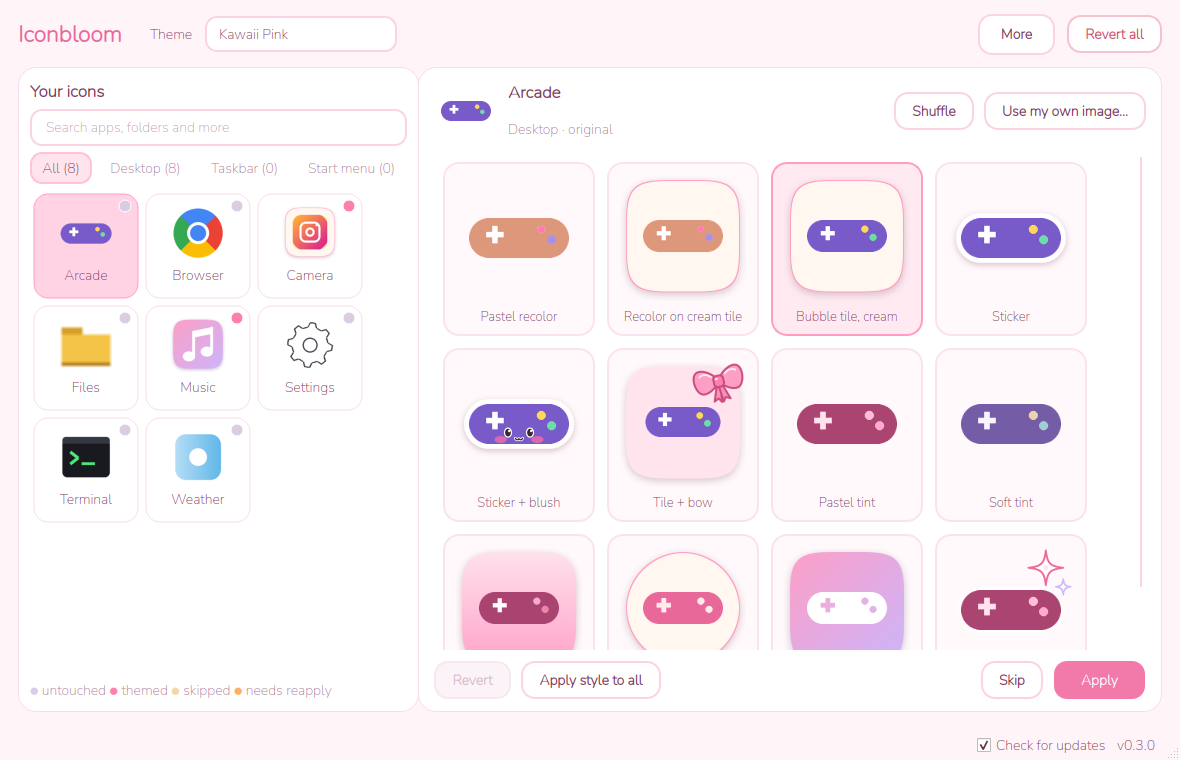
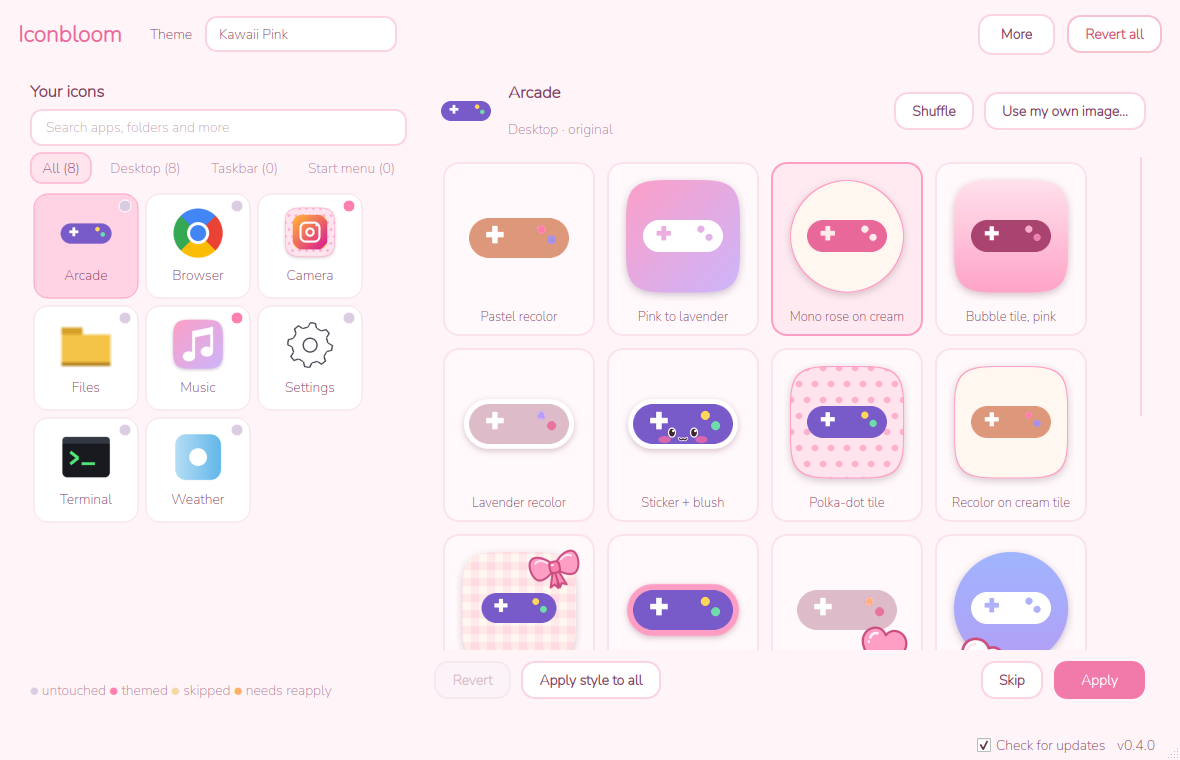
Release 0.4.0: short README, every theme in the showcase
- README is a front page (34 lines): pitch, download, images, FAQ, build,
  license; a test keeps it under 40 lines and checks it shows every theme
- before-after.png has a row per theme; picker.gif picks, applies,
  switches theme and ends in dark mode
- Screenshot script waits for every preview and clears replaced cards,
  so no frame shows a half-drawn or stale picker
- Regression test: after a theme switch, the next icon's previews use it
- ARCHITECTURE.md, CHANGELOG and version 0.4.0

Claude-Session: https://claude.ai/code/session_016EX7knyiLET2icNXRtZ31G

diff --git a/scripts/make_screenshots.py b/scripts/make_screenshots.py
@@ -14,17 +14,16 @@ from pathlib import Path
 from typing import override
 
 from PIL import Image, ImageDraw, ImageFont
-from PySide6.QtCore import QBuffer, QIODevice
+from PySide6.QtCore import QBuffer, QCoreApplication, QEvent, QIODevice
 from PySide6.QtWidgets import QApplication
 
 from app.choices import Choice
 from app.main import load_style
 from app.ui.main_window import MainWindow
-from app.ui.widgets import PreviewCard
 from app.updates import Release, Updater
 from engine import ops
 from engine.recipes import render
-from engine.themes import DEFAULT_THEME, load_theme
+from engine.themes import DEFAULT_THEME, Theme, list_themes, load_theme
 from tests.fakes import SAMPLES_DIR, FakeDesktop
 
 ROOT = Path(__file__).resolve().parent.parent
@@ -39,17 +38,25 @@ APPS = {
     "Terminal": "dark",
     "Weather": "semi_transparent",
 }
-# One cohesive pick per app, as a person might choose in the picker.
+# One pick per app, as a person might choose in the picker, by position in the
+# theme's list. Every bundled theme orders its 20 styles in the same rhythm, so
+# the same position gives each theme's version of a look.
 PICKS = {
-    "Arcade": "sticker_face",
-    "Browser": "tile_bow",
-    "Camera": "bubble_cream",
-    "Files": "pastel_tint",
-    "Music": "gradient_white",
-    "Settings": "mono_rose",
-    "Terminal": "bubble_pink",
-    "Weather": "tint_sparkle",
+    "Arcade": 4,  # second recolor on a sticker
+    "Browser": 9,  # gingham tile + badge
+    "Camera": 6,  # polka-dot tile
+    "Files": 0,  # recolor
+    "Music": 1,  # gradient tile
+    "Settings": 2,  # mono on cream
+    "Terminal": 3,  # bubble tile
+    "Weather": 8,  # tint + glow + badge
 }
+# The picker GIF switches to this theme halfway through.
+SECOND_THEME = "lavender_dream"
+
+
+def pick(theme: Theme, app: str) -> str:
+    return theme.recipes[PICKS[app]].id
 
 
 class OfflineUpdater(Updater):
@@ -67,10 +74,17 @@ def _sample(app: str) -> Image.Image:
 
 def _grab(app: QApplication, window: MainWindow) -> Image.Image:
     # Let the selection delay fire and every background render land.
-    deadline = time.monotonic() + 0.5
-    while time.monotonic() < deadline:
-        app.processEvents()
+    settled = time.monotonic() + 0.5
+    give_up = time.monotonic() + 20
+    while True:
         window.jobs.wait()
+        app.processEvents()
+        # processEvents() skips deleteLater(); without this, replaced cards stay on screen.
+        QCoreApplication.sendPostedEvents(None, QEvent.Type.DeferredDelete)
+        if time.monotonic() >= settled and not window.jobs.busy and _previews_ready(window):
+            break
+        if time.monotonic() > give_up:
+            raise TimeoutError("previews never finished rendering")
         time.sleep(0.02)
     buffer = QBuffer()
     buffer.open(QIODevice.OpenModeFlag.WriteOnly)
@@ -78,7 +92,14 @@ def _grab(app: QApplication, window: MainWindow) -> Image.Image:
     return Image.open(io.BytesIO(bytes(buffer.data().data()))).convert("RGB")
 
 
+def _previews_ready(window: MainWindow) -> bool:
+    theme = window.service.styles.theme(str(window.theme_box.currentData()))
+    return len(window.picker.cards) == len(theme.recipes)
+
+
 def picker_media(app: QApplication) -> None:
+    """picker.png, and picker.gif: pick, apply, switch theme, pick again, go dark."""
+    kawaii = load_theme(DEFAULT_THEME)
     with tempfile.TemporaryDirectory() as tmp:
         desktop = FakeDesktop(Path(tmp), icons=APPS)
         for name in APPS:
@@ -86,14 +107,15 @@ def picker_media(app: QApplication) -> None:
         service = desktop.service()
         for target in service.scan():
             if target.name in ("Camera", "Music"):
-                service.apply(target, Choice(DEFAULT_THEME, PICKS[target.name]))
+                service.apply(target, Choice(DEFAULT_THEME, pick(kawaii, target.name)))
         window = MainWindow(service, hard_refresh=lambda: None, updater=OfflineUpdater())
+        window.set_dark_mode(False, save=False)
         window.resize(1180, 760)
         window.show()
         frames = [_grab(app, window)]
 
         def click(card: int) -> None:
-            chosen = window.findChildren(PreviewCard)[card]
+            chosen = window.picker.cards[card]
             chosen.clicked.emit(chosen)
             frames.append(_grab(app, window))
 
@@ -101,8 +123,12 @@ def picker_media(app: QApplication) -> None:
         click(3)
         window.apply_chosen()
         frames.append(_grab(app, window))
+        window.theme_box.setCurrentIndex(window.theme_box.findData(SECOND_THEME))
+        frames.append(_grab(app, window))
         click(1)
         window.apply_chosen()
+        frames.append(_grab(app, window))
+        window.set_dark_mode(True, save=False)
         frames.append(_grab(app, window))
         frames[1].save(OUT / "picker.png", optimize=True)
         small = [
@@ -114,35 +140,44 @@ def picker_media(app: QApplication) -> None:
             OUT / "picker.gif",
             save_all=True,
             append_images=palette[1:],
-            duration=[1400, 1000, 1000, 1400, 1000, 1800],
+            duration=[1400, 1000, 1000, 1400, 1400, 1000, 1400, 2200],
             loop=0,
             optimize=True,
         )
+        window.set_dark_mode(False, save=False)
         window.close()
 
 
 def before_after() -> None:
-    theme = load_theme(DEFAULT_THEME)
-    size, gap, label_w = 64, 26, 90
+    """The sample icons as they come, then in every bundled theme."""
+    themes = [load_theme(t) for t in list_themes()]
+    themes.sort(key=lambda t: t.id != DEFAULT_THEME)
+    size, gap, label_w, row_h = 64, 26, 150, 104
     width = label_w + len(APPS) * (size + gap) + gap
-    sheet = Image.new("RGB", (width, 2 * (size + 40) + 20), (0, 0, 0))
+    sheet = Image.new("RGB", (width, (1 + len(themes)) * row_h + 20), (0, 0, 0))
     wallpaper = ops.linear_gradient(sheet.size, (92, 120, 168), (170, 140, 190), 20)
     sheet.paste(wallpaper)
     draw = ImageDraw.Draw(sheet)
     font = ImageFont.load_default(size=15)
-    for row, caption in enumerate(("Before", "After")):
-        y = 20 + row * (size + 40)
+    rows: list[tuple[str, Theme | None]] = [("Before", None), *((t.name, t) for t in themes)]
+    for row, (caption, theme) in enumerate(rows):
+        y = 20 + row * row_h
         draw.text((18, y + size // 2), caption, fill=(255, 255, 255), font=font, anchor="lm")
         for col, app in enumerate(APPS):
             icon, _ = ops.prepare(_sample(app))
-            if row == 1:
-                icon = render(theme.recipe(PICKS[app]), icon, theme)
+            if theme is not None:
+                icon = render(theme.recipe(pick(theme, app)), icon, theme)
             x = label_w + gap + col * (size + gap)
             small = icon.resize((size, size), Image.Resampling.LANCZOS)
             sheet.paste(small, (x, y), small)
-            draw.text(
-                (x + size // 2, y + size + 14), app, fill=(255, 255, 255), font=font, anchor="mm"
-            )
+            if row == 0:
+                draw.text(
+                    (x + size // 2, y + size + 14),
+                    app,
+                    fill=(255, 255, 255),
+                    font=font,
+                    anchor="mm",
+                )
     sheet.save(OUT / "before-after.png", optimize=True)
 
 

diff --git a/tests/test_docs.py b/tests/test_docs.py
@@ -5,6 +5,8 @@ from pathlib import Path
 
 import pytest
 
+from engine.themes import list_themes
+
 ROOT = Path(__file__).resolve().parent.parent
 DOCS = [
     ROOT / "README.md",
@@ -28,3 +30,21 @@ def test_local_links_and_images_exist(doc: Path) -> None:
 def test_readme_needs_no_edit_per_release() -> None:
     """Version numbers in the README go stale; it links to the latest release instead."""
     assert not re.search(r"\b\d+\.\d+\.\d+\b", (ROOT / "README.md").read_text(encoding="utf-8"))
+
+
+README_MAX_LINES = 40
+
+
+def test_readme_stays_short() -> None:
+    """The README is a front page: pictures, download, FAQ. Details live in docs/."""
+    lines = (ROOT / "README.md").read_text(encoding="utf-8").splitlines()
+    assert len(lines) <= README_MAX_LINES
+
+
+def test_readme_shows_every_theme() -> None:
+    """The showcase image has a row per bundled theme; its alt text says so."""
+    readme = (ROOT / "README.md").read_text(encoding="utf-8")
+    assert f"each of the {_NUMBER_WORDS[len(list_themes())]} themes" in readme
+
+
+_NUMBER_WORDS = {3: "three", 4: "four", 5: "five", 6: "six", 7: "seven", 8: "eight"}

diff --git a/tests/test_ui_theme_switch.py b/tests/test_ui_theme_switch.py
@@ -1,0 +1,21 @@
+"""Switching themes changes every preview after it, including the next icon's."""
+
+from engine.themes import load_theme
+from tests.ui_harness import Harness
+
+SECOND = "lavender_dream"
+
+
+def test_next_icon_after_apply_uses_the_new_theme(harness: Harness) -> None:
+    window = harness.window
+    window.theme_box.setCurrentIndex(window.theme_box.findData(SECOND))
+    harness.wait_for_previews()
+    labels = {r.label for r in load_theme(SECOND).recipes}
+    assert {c.label for c in window.picker.cards} <= labels
+    window.picker.choose(window.picker.cards[1])
+    window.apply_chosen()
+    harness.settle()
+    harness.wait_for_previews()
+    harness.qtbot.wait(400)
+    harness.settle()
+    assert all(c.choice.theme == SECOND for c in window.picker.cards)

diff --git a/app/__init__.py b/app/__init__.py
@@ -2,4 +2,4 @@
 
 # Kept in step with pyproject.toml (a test checks), since the frozen app has no
 # package metadata to read it from.
-__version__ = "0.3.2"
+__version__ = "0.4.0"

diff --git a/README.md b/README.md
@@ -7,35 +7,13 @@ Restyle your Windows desktop into one cute, matching theme, one icon at a time. 
 
 [![Download for Windows](https://img.shields.io/badge/Download_for_Windows-Iconbloom-2ea44f?style=for-the-badge)](https://github.com/qwopp/iconbloom/releases/latest)
 
-![Sample icons before and after the Kawaii Pink theme](docs/screenshots/before-after.png)
+![Sample icons before, and in each of the five themes](docs/screenshots/before-after.png)
 
-![Picking a style for each icon](docs/screenshots/picker.gif)
-
-## How it works
-
-Pick an icon, choose one of 20 styled versions of its real icon, and click **Apply**. Nothing is AI-generated: every style is the app's own icon run through filters, frames and hand-drawn decorations.
-
-- **Works on** shortcuts (including Steam and Epic games), desktop folders, taskbar pins, the Start menu, and the Recycle Bin, This PC, Network and your user folder.
-- An app with shortcuts in several places is one tile, styled everywhere at once.
-- Ctrl/Shift-click to style several icons together. **Use my own image…** takes any PNG.
-- **Revert** or **Revert all** puts originals back. The uninstaller offers to as well.
-
-## What it changes
-
-Only which icon something shows: never what it opens, and never your apps.
-
-| Item | Where the icon setting lives |
-|---|---|
-| Shortcuts | The icon field in the `.lnk` or `.url` file |
-| Folders | A hidden `desktop.ini` in the folder, as Windows' own *Change Icon* writes it (syncs with OneDrive) |
-| Recycle Bin, This PC, Network, user folder | Your user's registry setting, as Windows' *Desktop icon settings* writes it |
-| Start menu apps installed for all users | Same as shortcuts. Windows asks for permission first |
-
-It can't change running apps that aren't pinned, Store apps in Start, Alt+Tab or title bars. Those icons come from the apps themselves.
-
-Before changing anything, Iconbloom saves an exact copy of it in `%LOCALAPPDATA%\Iconbloom`. Revert restores that copy.
+![Picking styles, switching themes and dark mode](docs/screenshots/picker.gif)
 
 ## FAQ
+
+**Can I undo it?** Yes. **Revert** or **Revert all** puts every original back, and so does the uninstaller. Iconbloom only changes which icon something shows, never your apps.
 
 **"Windows protected your PC"?** Releases aren't code-signed yet. Click **More info → Run anyway**. Each release lists SHA-256 checksums to verify your download.
 
@@ -43,18 +21,11 @@ Before changing anything, Iconbloom saves an exact copy of it in `%LOCALAPPDATA%
 
 **An app update reset an icon?** Use **More → Reapply my icons**.
 
-**Internet use?** Only an update check when it opens (untick **Check for updates** to stop it). Updates install only when you click **Update now**, and only after the download matches its published checksum.
+**Internet use?** Only an update check when it opens (untick **Check for updates** to stop it). Updates install only when you click **Update now**.
 
 ## Build from source
 
-Needs Windows 10 or 11 and [uv](https://docs.astral.sh/uv/).
-
-```powershell
-git clone https://github.com/qwopp/iconbloom
-cd iconbloom
-uv sync
-uv run python -m app.main
-```
+Needs Windows 10 or 11 and [uv](https://docs.astral.sh/uv/): `uv sync`, then `uv run python -m app.main`.
 
 [CONTRIBUTING.md](CONTRIBUTING.md) covers tests, themes and releases. [docs/ARCHITECTURE.md](docs/ARCHITECTURE.md) explains how it fits together.
 

diff --git a/docs/ARCHITECTURE.md b/docs/ARCHITECTURE.md
@@ -20,11 +20,17 @@ future macOS port.
 - `recipes.py`: the op registry, parameter checking, and `render()`. Theme-level values (palette
   names, asset names, shuffle choices) are turned into concrete values here, so ops stay pure.
   Seed 0 always renders the default look.
-- `themes.py`: loads `themes/<id>/theme.json` and its PNG assets.
+- `themes.py`: loads `themes/<id>/theme.json` and its PNG assets, resolving recipes listed
+  by id from the shared `themes/_library/recipes.json`.
+- `families.py`: the kinds of recipe (recolor, tile, sticker, tint...). Themes keep two of a
+  kind apart, and color-flattening ones move last for colorful icons.
 - `analyze.py`: colorfulness (Hasler-Suesstrunk) for recipe order, and dominant hue for
   `"auto"` colors.
 - `ico.py`: multi-size `.ico` writer. The 16 and 24 px frames come from a simplified render.
 - `sheet.py`: the contact sheet CLI.
+
+Decorations are SVG templates in `themes/_library/decorations/`, colored per theme by
+`scripts/render_assets.py` into committed PNGs; the app never renders SVG.
 
 ## platform_win/
 
@@ -33,7 +39,8 @@ load and are tested on any OS.
 
 - `shortcuts.py`: the data model and scanning. An item ("shortcut") is a `.lnk` or `.url`
   file, a desktop folder, or a Windows icon such as the Recycle Bin (`::{CLSID}`). Scanning
-  uses the shell's known folders, filters out uninstallers and readmes, and groups items
+  uses the shell's known folders (and up to three folders deep on the desktop), never
+  reads OneDrive online-only files, filters out uninstallers and readmes, and groups items
   that run the same program with the same arguments or the same name.
 - `item_io.py`: one `ItemIO` per kind of item. Each reads and sets the icon, and saves or
   restores the full state that decides it, so backups work the same way for all of them:
@@ -88,6 +95,8 @@ slow step runs on `JobRunner`'s thread pool, so the window never freezes.
 - `update_flow.py`, `notice.py`: the update banner and the banner widget itself.
 - `jobs.py`, `controls.py`, `widgets.py`: background jobs, shared helpers, and the painted
   tiles, cards and popup.
+- `palette.py`: every UI color by name, light and dark. `style.qss` is a template that
+  uses those names, so switching modes is one restyle.
 
 ## Runtime data
 
@@ -97,7 +106,9 @@ Everything lives in `%LOCALAPPDATA%\Iconbloom\`: `icons\` (generated `.ico` file
 
 ## Testing
 
-- The `tests/goldens/` images pin every recipe's output on every sample icon.
+- The `tests/goldens/` images pin every recipe's output: Kawaii Pink on every sample icon,
+  the other themes on four representative ones. A rules test checks every bundled theme
+  (20 styles, a recolor first, no two neighbors of the same family).
 - Hypothesis property tests check the op invariants.
 - `tests/fakes.py` stands in for the user's shortcut folders (`FakeDesktop`) and for
   `IShellLink` (JSON files), so apply/revert, crash and corruption scenarios run on every OS.

diff --git a/CHANGELOG.md b/CHANGELOG.md
@@ -6,6 +6,29 @@ All notable changes to Iconbloom are documented here. The format follows
 
 ## [Unreleased]
 
+## [0.4.0] - 2026-11-09
+
+### Added
+
+- Four new themes: **Mint Matcha**, **Lavender Dream**, **Peach Sunset** and
+  **Midnight Neon**.
+- 20 styles per theme (up from 12), including polka-dot, gingham and striped tiles and new
+  hand-drawn stars, flowers, clouds, moons, leaves and suns.
+- **More → Dark mode**. Until you choose, Iconbloom follows Windows' app mode.
+- Shortcuts inside folders on your desktop (up to three folders deep). A copy of an app
+  that's already on your desktop joins its tile and is styled with it.
+
+### Changed
+
+- Styles appear in a curated order: the biggest color changes first, and never two of the
+  same kind side by side. Colorful icons still get their tints last.
+
+### Fixed
+
+- One corrupt or locked shortcut could stop the whole scan; it is now skipped like any
+  unreadable file.
+- The scan never opens OneDrive online-only files, which would download them.
+
 ## [0.3.2] - 2026-11-09
 
 ### Fixed
@@ -98,7 +121,8 @@ First release.
 - Opt-in update check, off by default.
 - Per-user installer and portable zip, with SHA-256 checksums.
 
-[Unreleased]: https://github.com/qwopp/iconbloom/compare/v0.3.2...HEAD
+[Unreleased]: https://github.com/qwopp/iconbloom/compare/v0.4.0...HEAD
+[0.4.0]: https://github.com/qwopp/iconbloom/compare/v0.3.2...v0.4.0
 [0.3.2]: https://github.com/qwopp/iconbloom/compare/v0.3.0...v0.3.2
 [0.3.0]: https://github.com/qwopp/iconbloom/compare/v0.2.0...v0.3.0
 [0.2.0]: https://github.com/qwopp/iconbloom/compare/v0.1.0...v0.2.0
